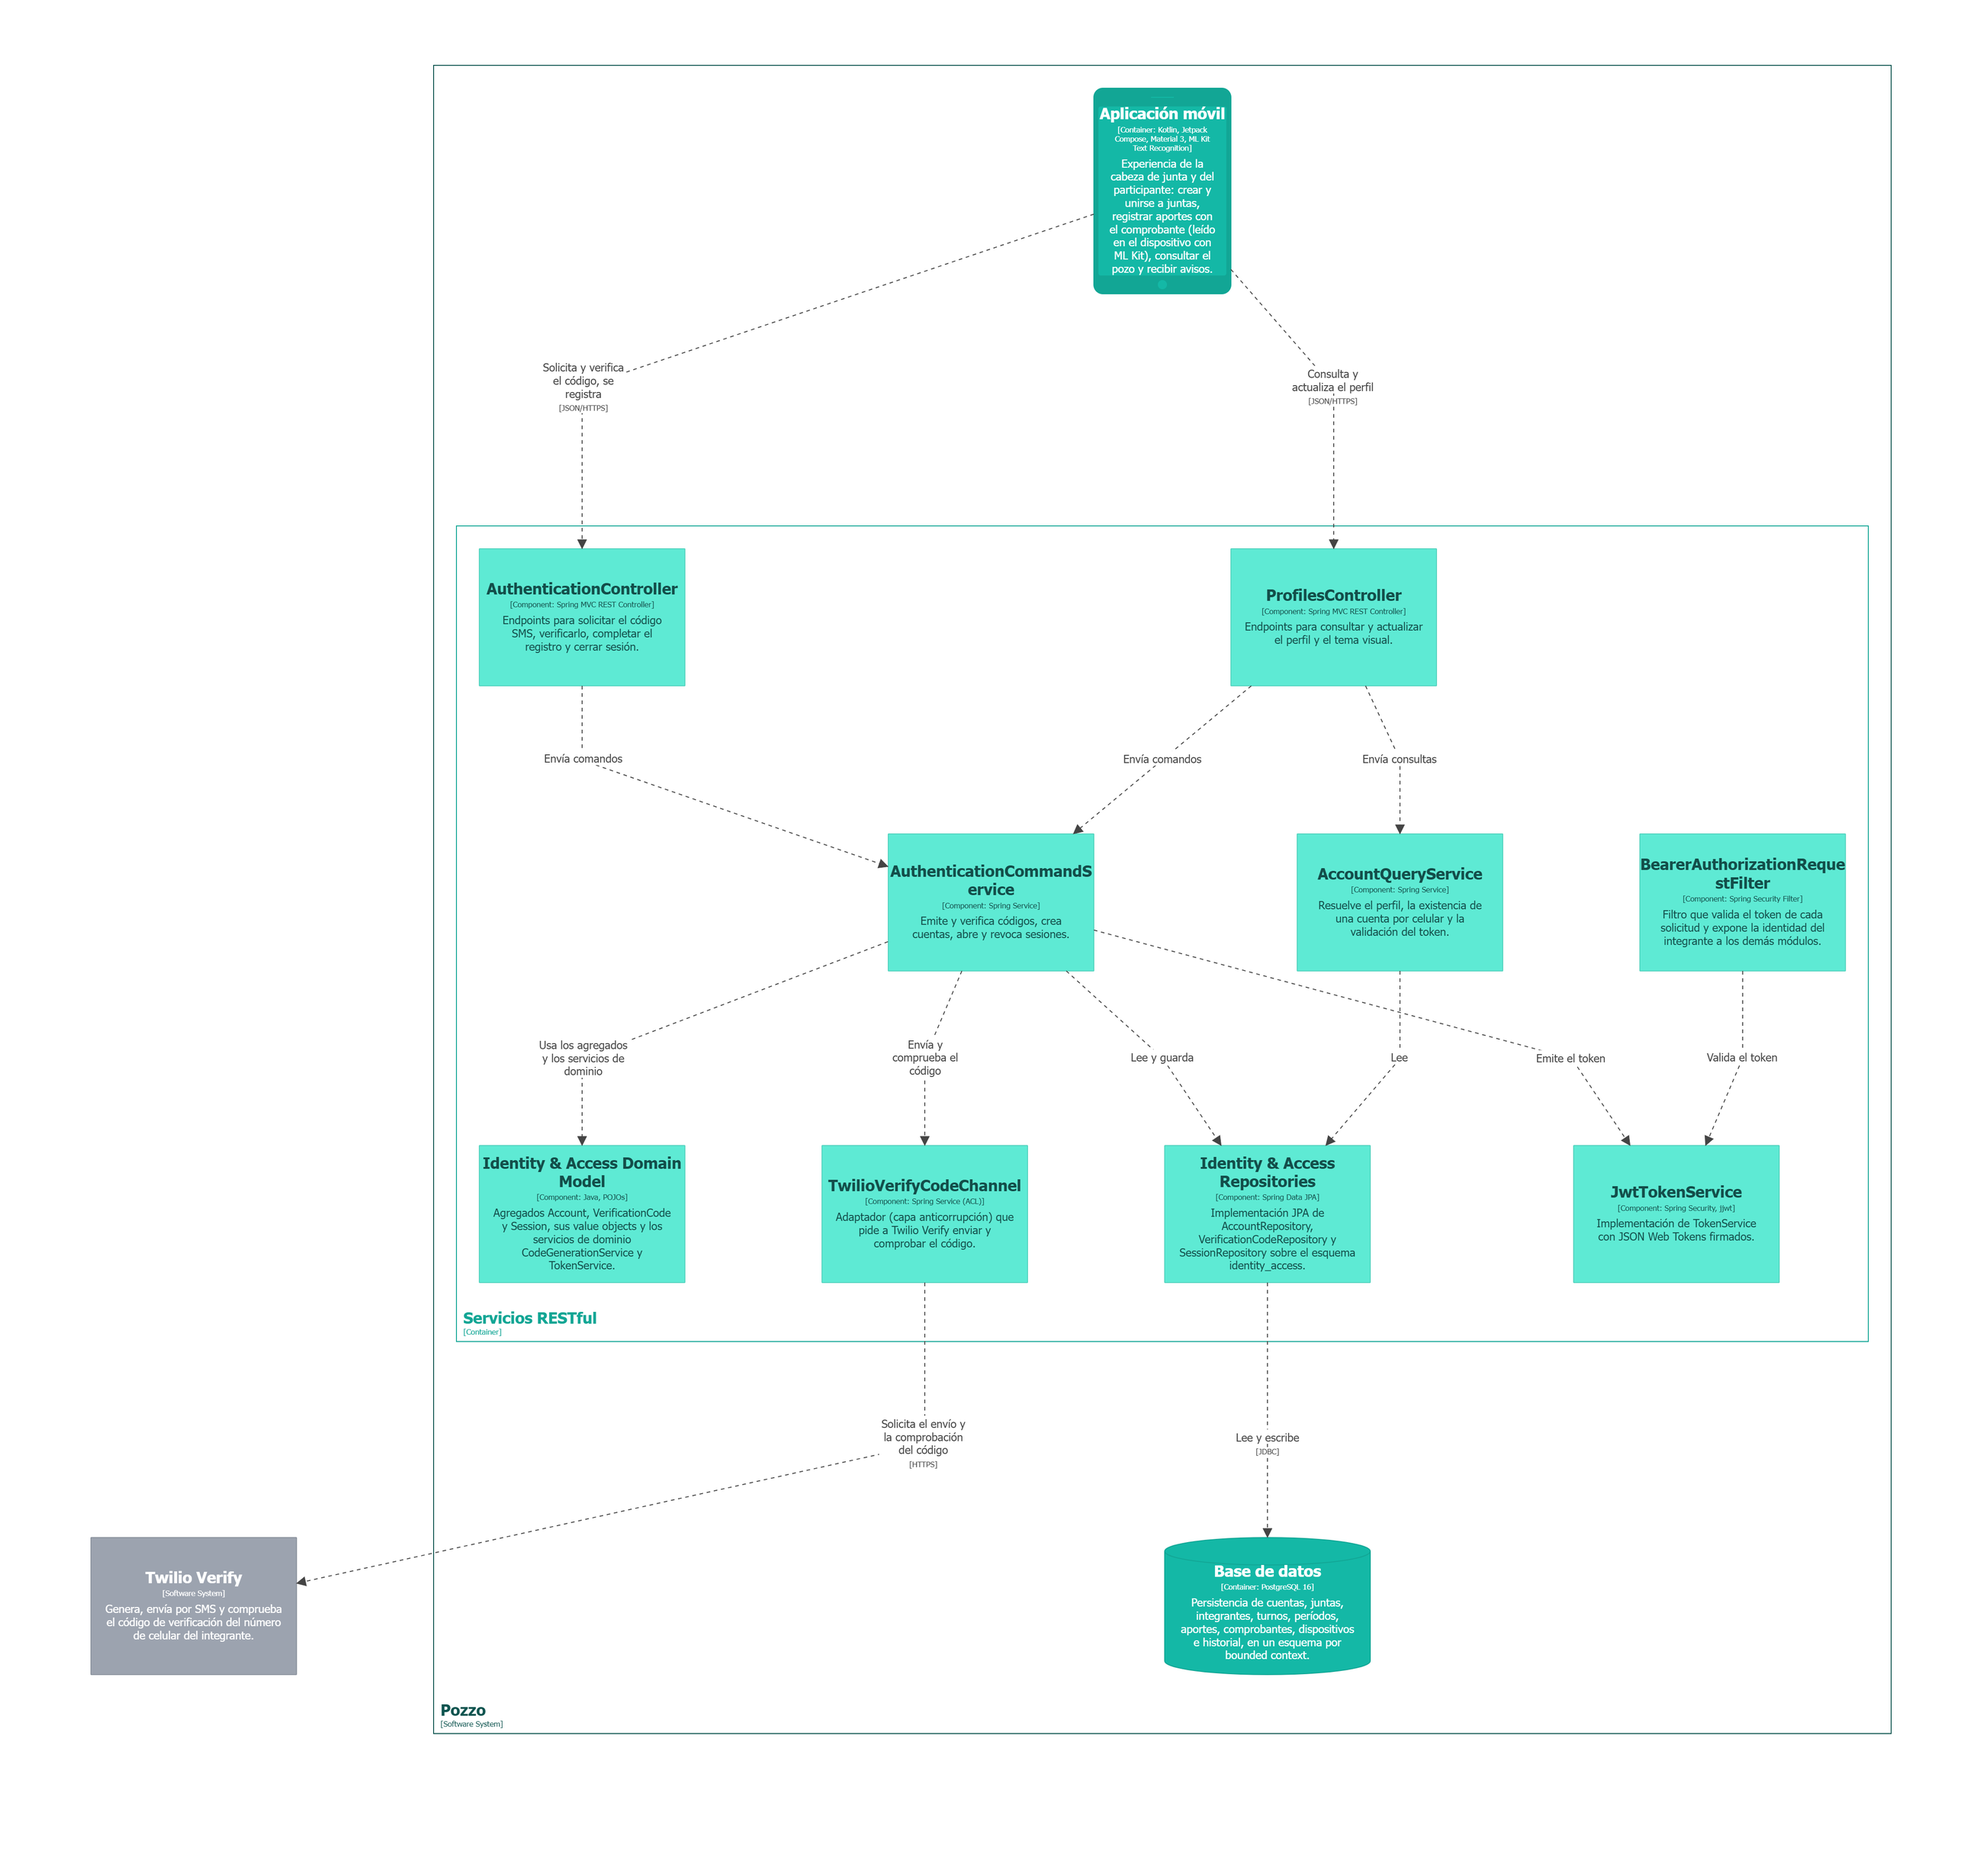
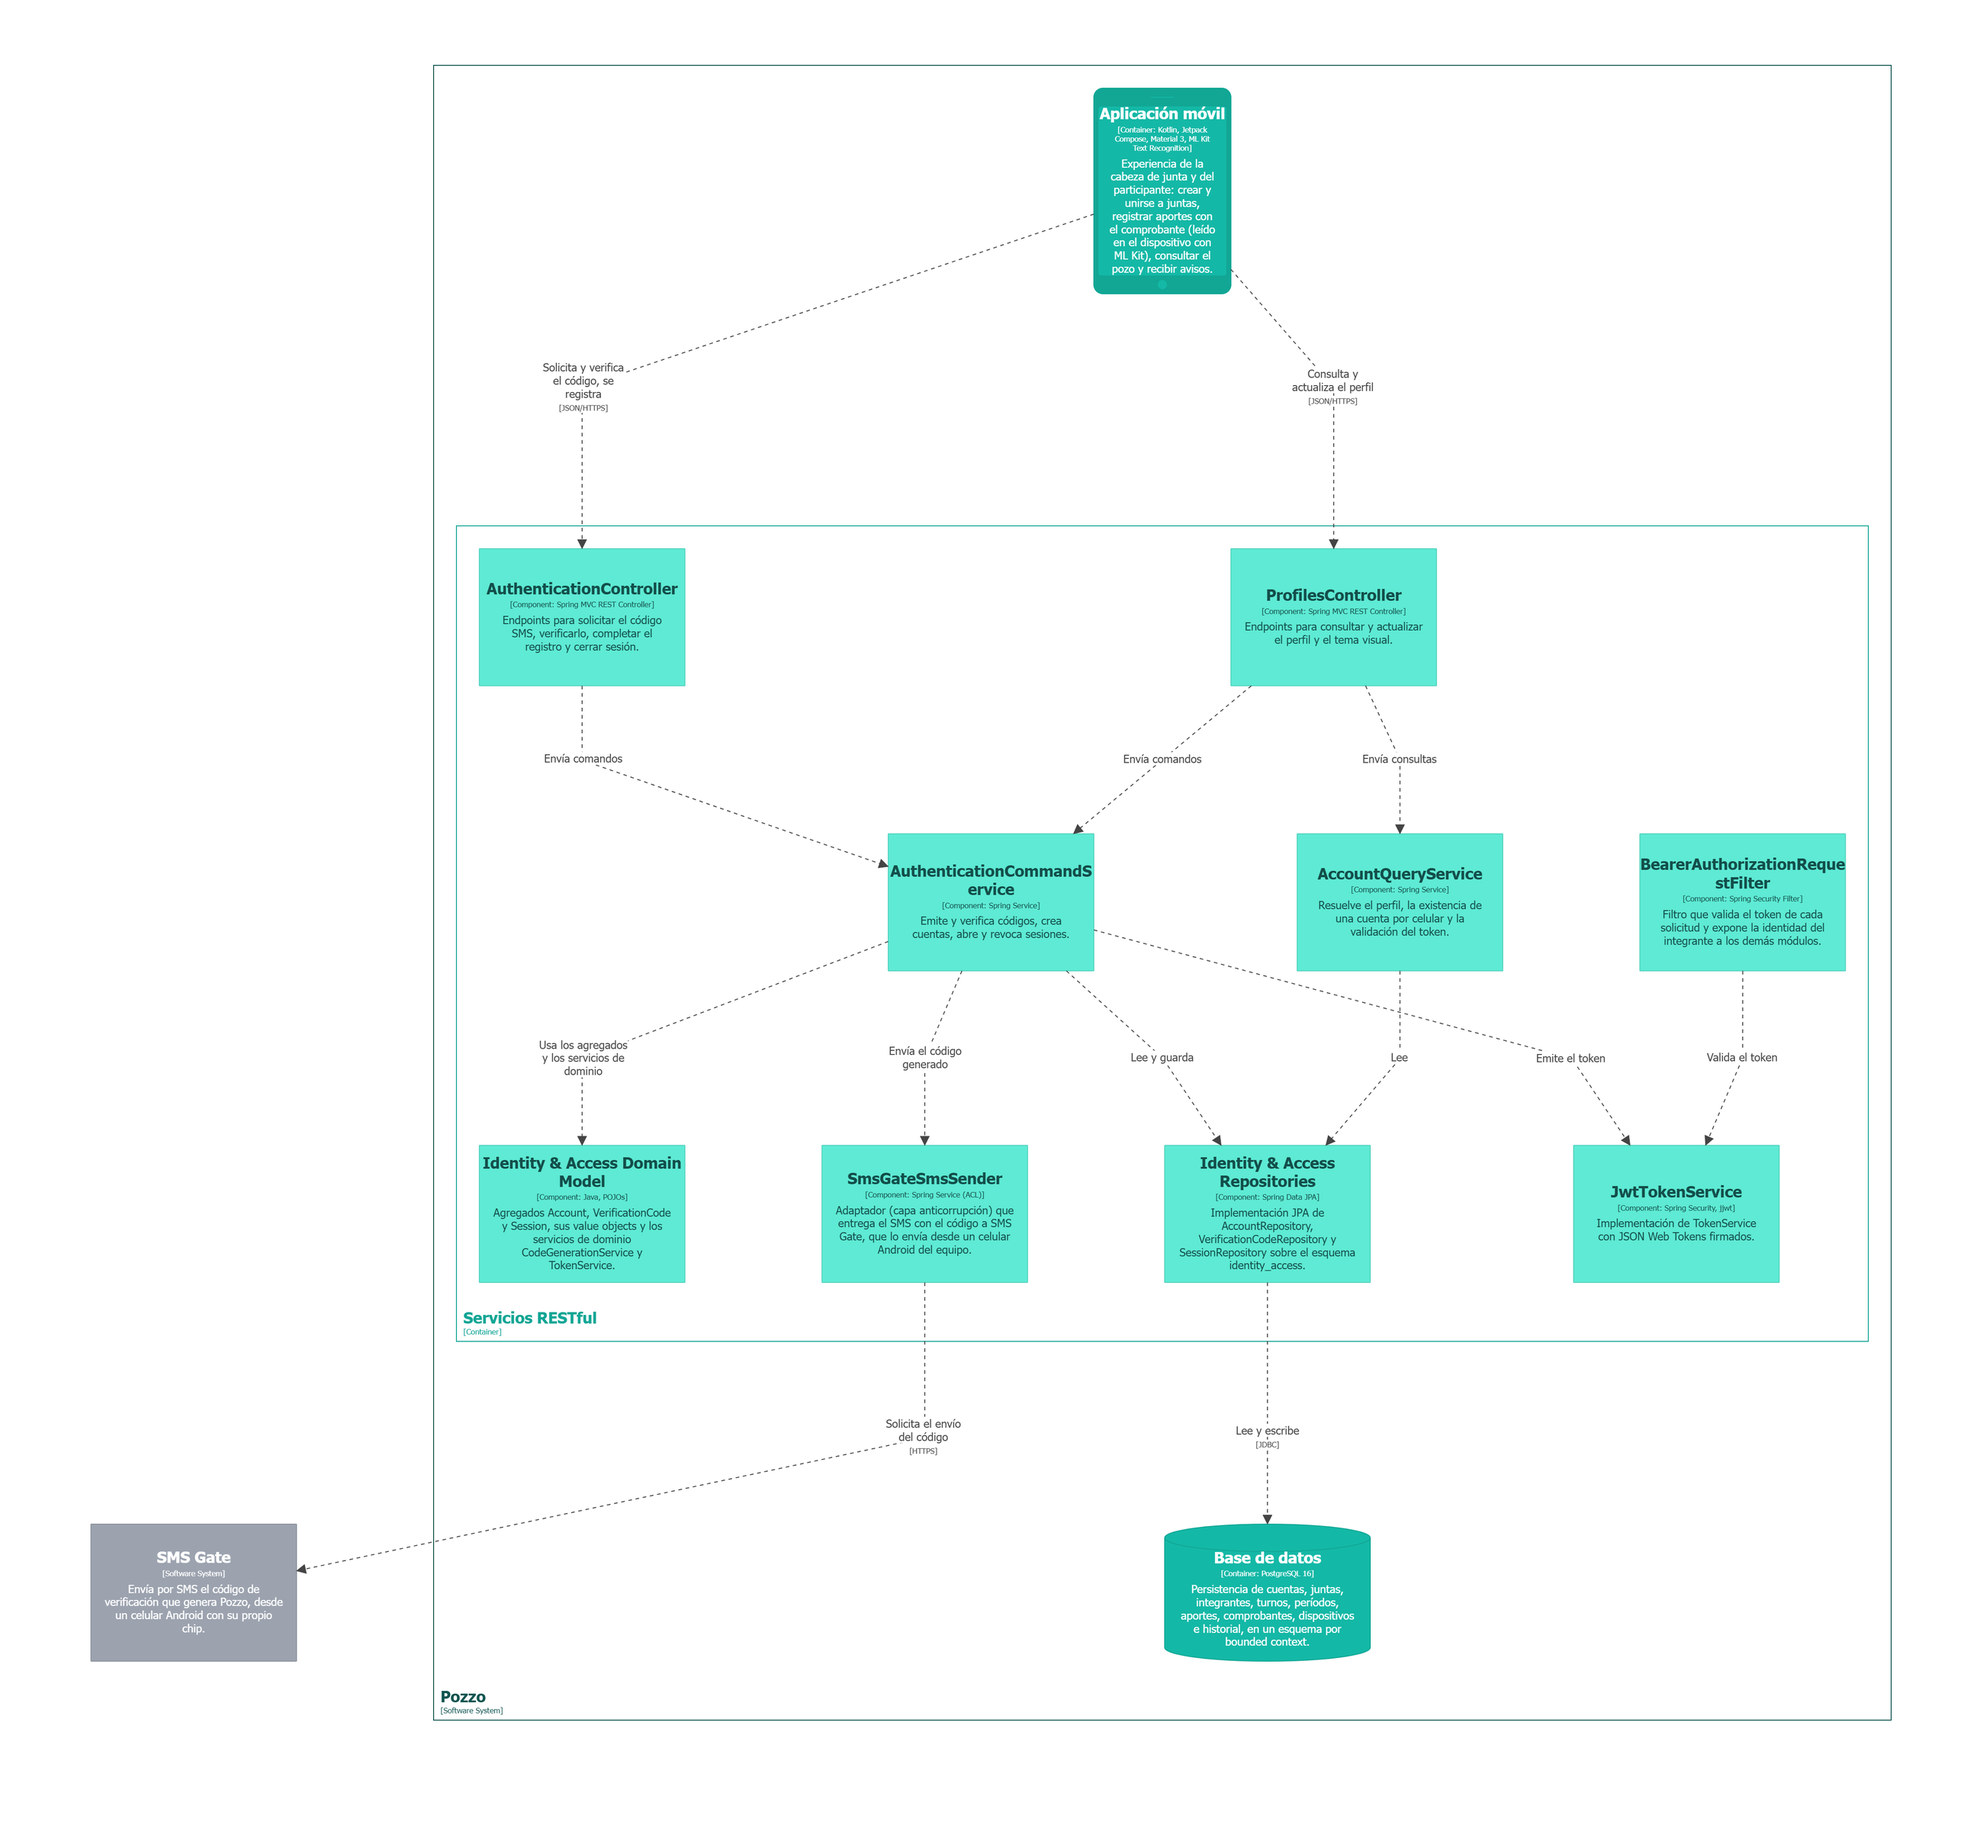
fix: describe SMS Gate instead of Twilio in Identity & Access
The services generate the code, keep its hash and send it through SMS Gate from an Android phone of the team; Twilio was never used. The context map, the infrastructure classes, the component diagram and its text now say so.

diff --git a/docs/chapter_2.md b/docs/chapter_2.md
@@ -3730,7 +3730,7 @@ El mapa definitivo usa cuatro de los patrones de relación de Domain-Driven Desi
       <td>Identity &amp; Access</td>
       <td>Proveedor de SMS</td>
       <td>Anti-corruption Layer</td>
-      <td>Un adaptador aísla al contexto del proveedor elegido, Twilio Verify, que podrá cambiarse sin tocar las reglas de acceso.</td>
+      <td>Un adaptador aísla al contexto del proveedor elegido, SMS Gate, que podrá cambiarse sin tocar las reglas de acceso.</td>
     </tr>
     <tr>
       <td>Notifications</td>
@@ -4723,7 +4723,7 @@ El esquema `notifications` tiene tres tablas. `devices` guarda los tokens, únic
 
 ### 2.6.5. Bounded Context: Identity & Access
 
-Identity & Access es el contexto genérico que identifica a cada integrante por su número de celular, sin contraseña. Su modelo tiene tres agregados. **Account** es la cuenta de un integrante con su celular, su perfil y la aceptación de términos. **VerificationCode** es un código SMS emitido para un celular, con su vencimiento y sus intentos; se modela como agregado separado porque existe antes de que exista la cuenta. **Session** es una sesión abierta en un dispositivo, representada por el hash de su token, para poder revocarla. Dos servicios de dominio se definen como interfaces: la generación y comparación de códigos y la emisión y validación de tokens, cuyas implementaciones dependen de bibliotecas de infraestructura. El envío y la comprobación del código pasan por un canal intercambiable, porque con Twilio Verify es el proveedor quien genera y valida el código, y Pozzo nunca lo conoce.
+Identity & Access es el contexto genérico que identifica a cada integrante por su número de celular, sin contraseña. Su modelo tiene tres agregados. **Account** es la cuenta de un integrante con su celular, su perfil y la aceptación de términos. **VerificationCode** es un código SMS emitido para un celular, con su vencimiento y sus intentos; se modela como agregado separado porque existe antes de que exista la cuenta. **Session** es una sesión abierta en un dispositivo, representada por el hash de su token, para poder revocarla. Dos servicios de dominio se definen como interfaces: la generación y comparación de códigos y la emisión y validación de tokens, cuyas implementaciones dependen de bibliotecas de infraestructura. El envío y la comprobación del código pasan por un canal intercambiable: el servidor genera el código, guarda solo su hash y entrega el mensaje a un proveedor de SMS que puede cambiarse sin tocar el dominio.
 
 #### 2.6.5.1. Domain Layer
 
@@ -4935,14 +4935,14 @@ La Tabla 102 presenta las clases del Infrastructure Layer de Identity & Access.
       <td>Tokens JWT firmados con HMAC y una clave del servidor: el de sesión lleva la cuenta y la sesión como claims, y el de registro, el celular verificado. De cada token de sesión se guarda solo su hash SHA-256.</td>
     </tr>
     <tr>
-      <td><b>TwilioVerifyCodeChannel</b></td>
-      <td>Anti-corruption Layer</td>
-      <td>Adaptador a Twilio Verify, el proveedor que eligió el equipo: Twilio genera el código, lo envía por SMS desde sus propios números y lo comprueba, así que Pozzo no necesita un número propio.</td>
+      <td><b>LocalVerificationCodeChannel</b></td>
+      <td>Adaptador</td>
+      <td>Genera el código de seis dígitos, guarda solo su hash y entrega el mensaje a un SmsSender; al verificar, compara lo que escribe el integrante con ese hash.</td>
     </tr>
     <tr>
-      <td><b>LocalVerificationCodeChannel,<br>LoggingSmsSender,<br>TwilioSmsSender</b></td>
-      <td>Adaptador</td>
-      <td>Alternativa en la que el servidor genera el código, guarda su hash y lo envía con un SmsSender: al registro del servidor en desarrollo o por Twilio Messaging. Una variable de entorno elige el canal.</td>
+      <td><b>SmsGateSmsSender,<br>LoggingSmsSender</b></td>
+      <td>Anti-corruption Layer</td>
+      <td>SmsGateSmsSender envía el SMS por la API de SMS Gate, una aplicación que convierte un celular Android del equipo en pasarela de mensajes con su propio chip; el mensaje vence junto con el código, para que un celular sin conexión no envíe después un código vencido. LoggingSmsSender escribe el mensaje en el registro del servidor durante el desarrollo. La variable de entorno <code>SMS_PROVIDER</code> elige cuál se usa.</td>
     </tr>
     <tr>
       <td><b>ConfiguredTestPhoneNumbers</b></td>
@@ -4968,7 +4968,7 @@ La Figura 64 muestra el diagrama de componentes de Identity & Access.
 
 ![Diagrama de componentes de Identity & Access](images/chapter_2/c4_components_identity_access.png){width=80%}
 
-Además de los controllers y servicios habituales, el diagrama muestra BearerAuthorizationFilter, el componente por el que Identity & Access actúa como Open Host Service para los demás módulos: valida el token de cada solicitud y expone la identidad del integrante sin que los otros contextos conozcan cuentas ni sesiones. VerificationCodeChannel es el único componente que habla con el proveedor de SMS, Twilio Verify.
+Además de los controllers y servicios habituales, el diagrama muestra BearerAuthorizationFilter, el componente por el que Identity & Access actúa como Open Host Service para los demás módulos: valida el token de cada solicitud y expone la identidad del integrante sin que los otros contextos conozcan cuentas ni sesiones. SmsGateSmsSender es el único componente que habla con el proveedor de SMS, SMS Gate.
 
 #### 2.6.5.6. Bounded Context Software Architecture Code Level Diagrams
 
